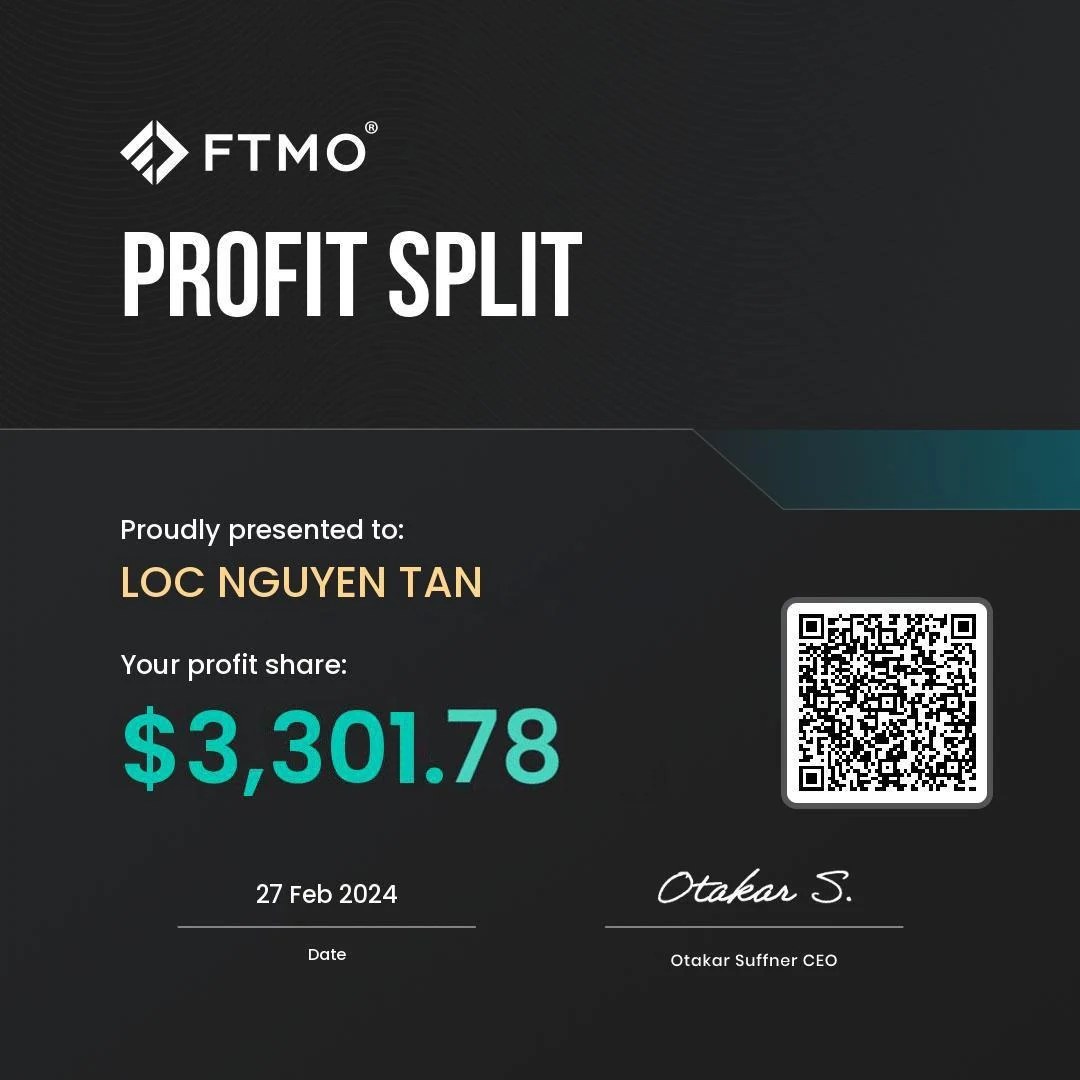
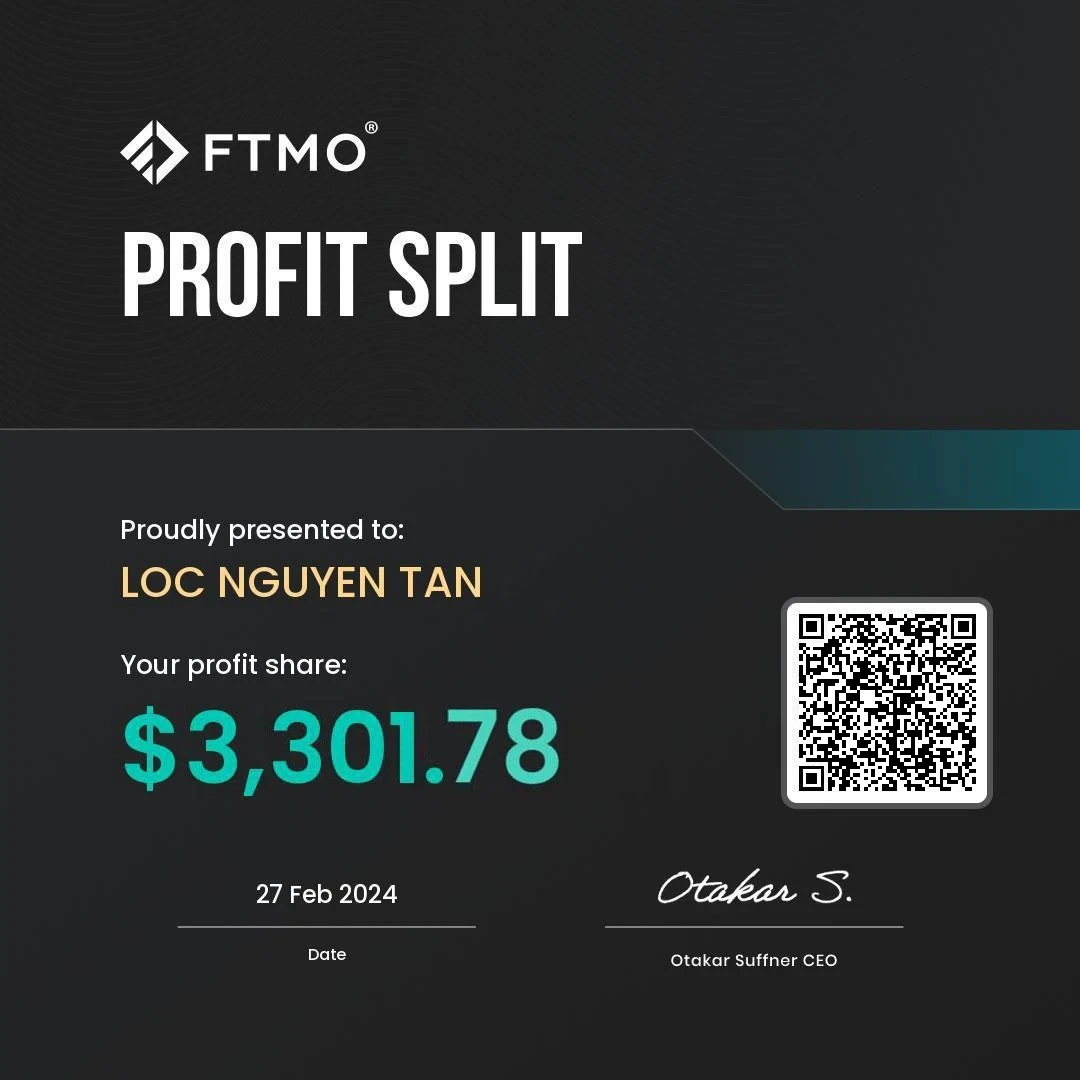
FTMO certificate: scramble QR so it cannot be scanned; bump SW cache
Claude-Session: https://claude.ai/code/session_01Cau7c7tL3meKz56QnXx8Xe

Changed region(s): [[0.7333, 0.55, 0.9167, 0.7333]]

diff --git a/landing/sw.js b/landing/sw.js
@@ -1,6 +1,6 @@
 /* Service worker: HTML/CSS/JS ưu tiên mạng (luôn nhận bản mới), ảnh dùng cache trước; có trang offline dự phòng.
    Khi đổi tệp tĩnh, tăng V để dọn cache cũ. */
-const V = "lavient-v6";
+const V = "lavient-v7";
 const SHELL = ["./", "index.html", "style.css", "script.js", "offline.html", "manifest.webmanifest", "img/icon-192.png"];
 self.addEventListener("install", e => { e.waitUntil(caches.open(V).then(c => c.addAll(SHELL)).then(() => self.skipWaiting())); });
 self.addEventListener("activate", e => {
